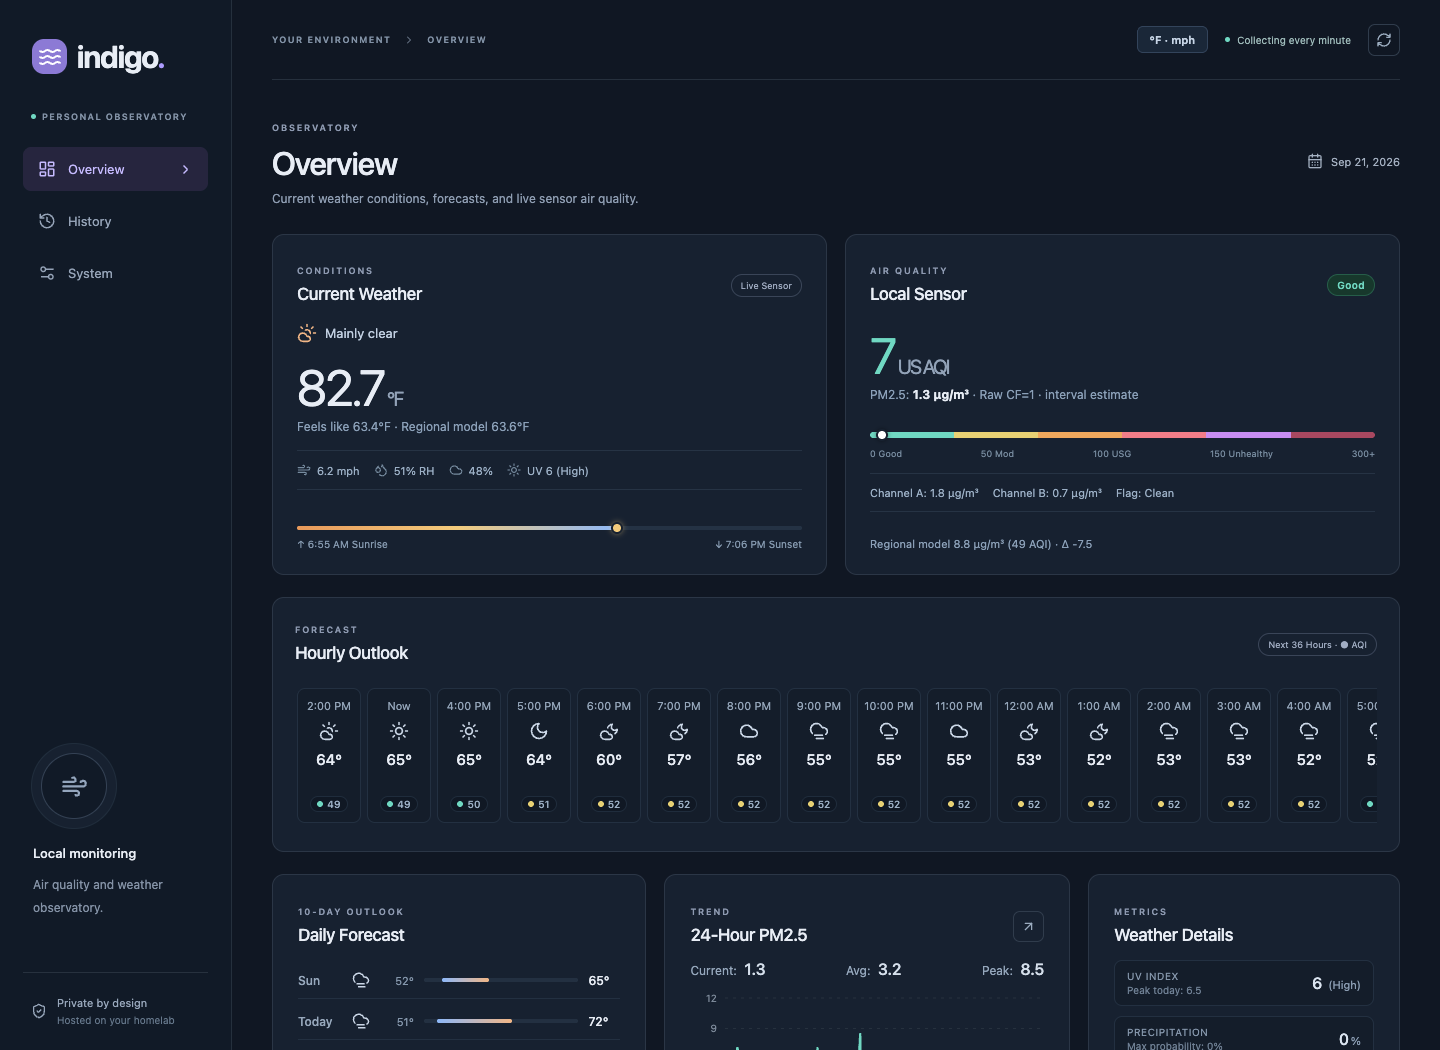
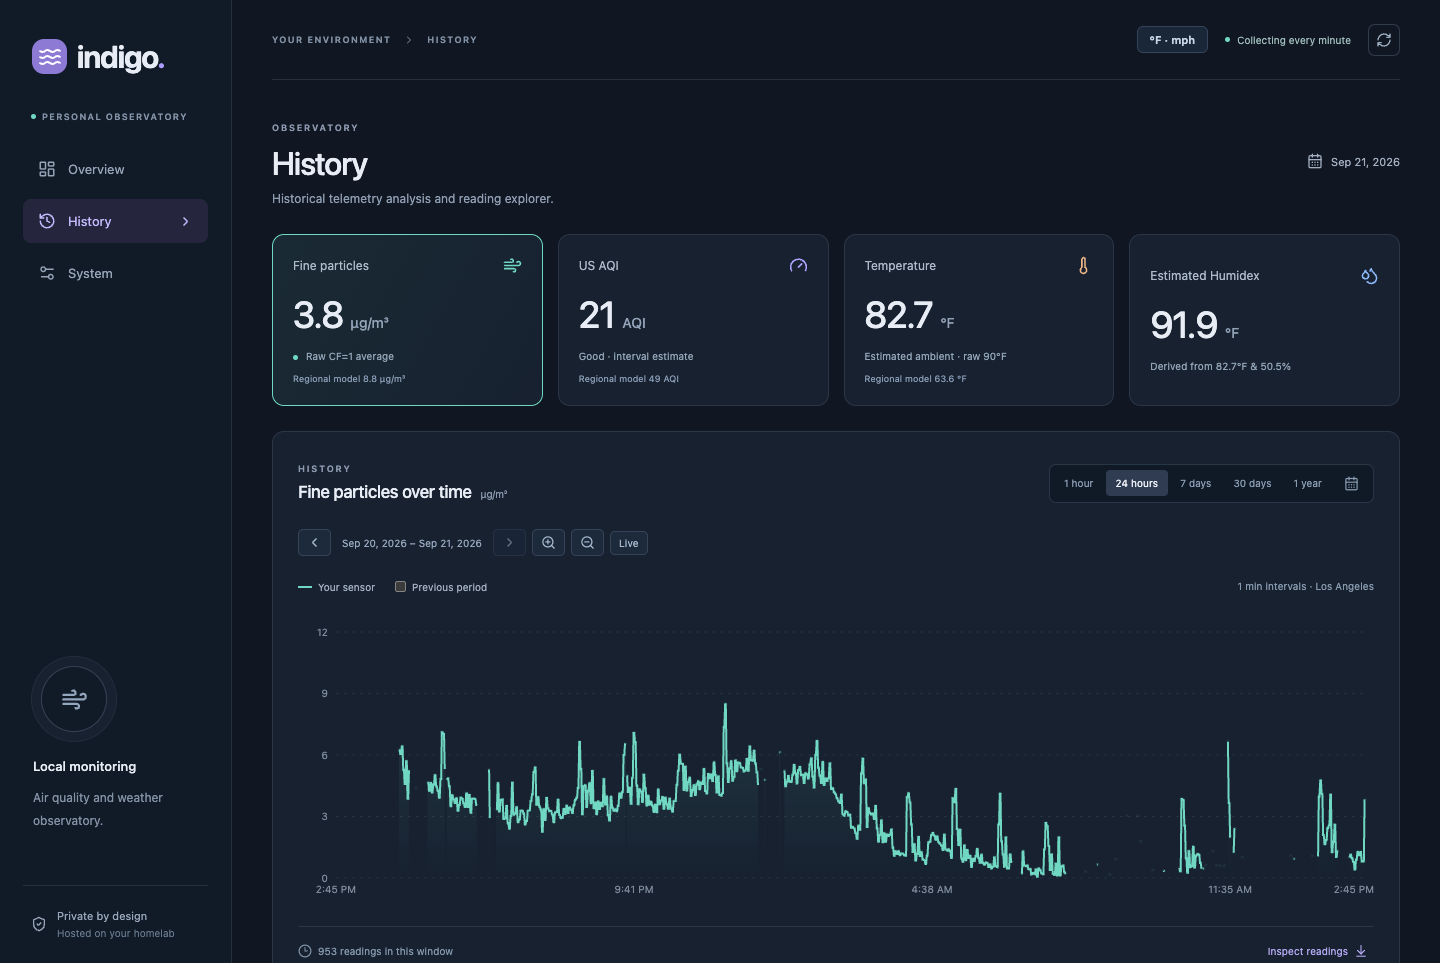
docs: show overview page first and history second in README

diff --git a/README.md b/README.md
@@ -3,7 +3,11 @@
 [![Build and test](https://github.com/dbulnes/indigo-stats/actions/workflows/check.yml/badge.svg)](https://github.com/dbulnes/indigo-stats/actions/workflows/check.yml)
 
 <p align="center">
-  <img src="docs/screenshot_history.png" alt="Indigo Stats Dashboard" width="800"/>
+  <img src="docs/screenshot_overview.png" alt="Indigo Stats Overview Dashboard" width="800"/>
+</p>
+
+<p align="center">
+  <img src="docs/screenshot_history.png" alt="Indigo Stats History & Telemetry" width="800"/>
 </p>
 
 A private air and weather observatory: React + TypeScript PWA, Python FastAPI, and SQLite, in one Unraid application container. An optional private HTTPS proxy provides PWA access over your tailnet. No Supabase, Google login, or public frontend hosting is required.
